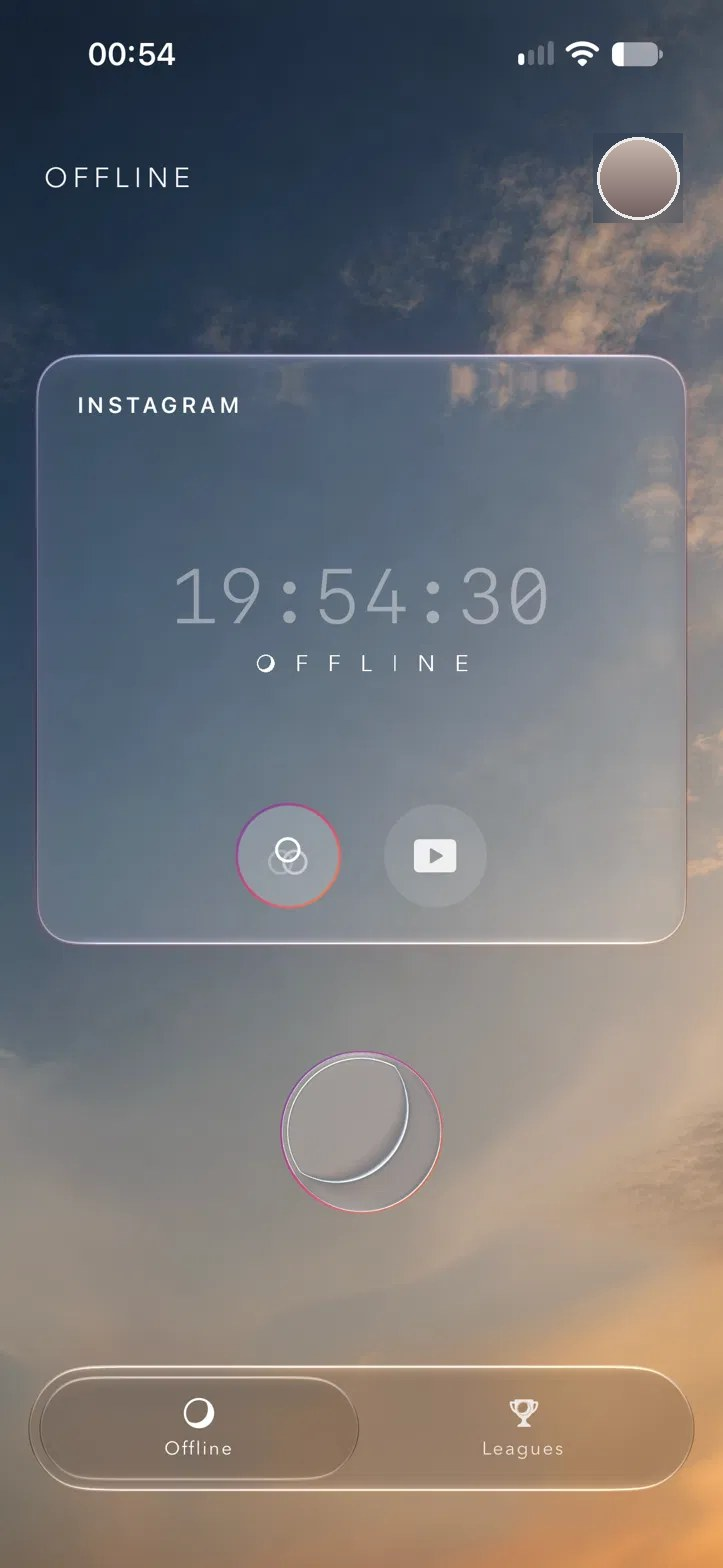
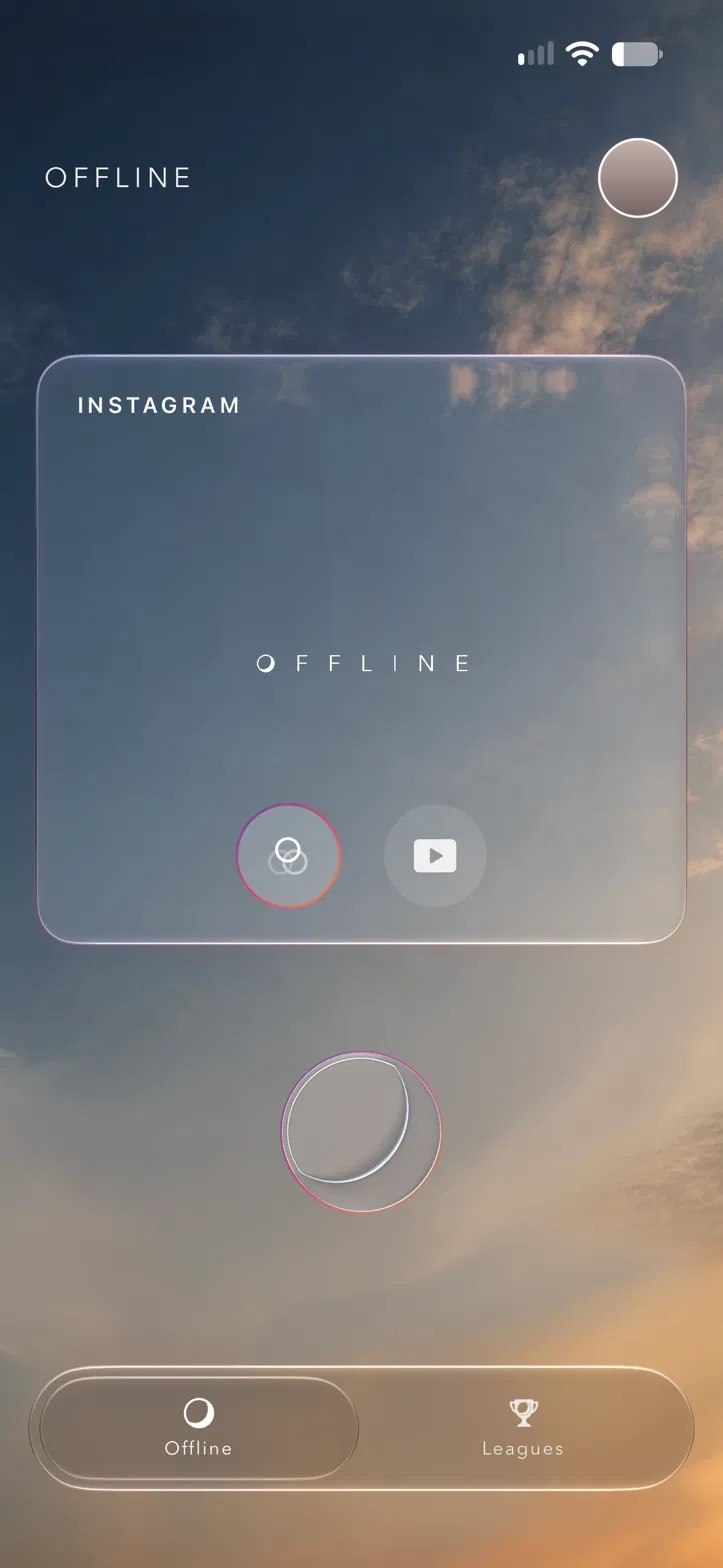
Live hero phone, refined league/rings/stats cards, app ring light in privacy and closing
Claude-Session: https://claude.ai/code/session_01EGmq6WDUmvdop7K59G5ceQ

diff --git a/index.html b/index.html
@@ -36,7 +36,7 @@
   <p class="meta-line">Free. No ads. No tracking.</p>
 
   <div class="shot" aria-hidden="true">
-    <div class="phone"><div class="app-screen real"><img src="img/hero_app.jpg" alt="The Offline tab: Instagram locked, an offline run counting up"></div></div>
+    <div class="phone"><div class="app-screen real"><div class="real-frame"><img src="img/hero_app.jpg" alt="The Offline tab: Instagram locked, an offline run counting up"><span class="ov-time" data-now>9:41</span><span class="ov-clock" data-clock>04:18:27</span></div></div></div>
   </div>
 </section>
 
@@ -99,7 +99,7 @@
     <p class="body"><strong>Your competition. Your rules.</strong></p>
     <div class="seg" style="margin-top:22px"><span class="on">Private leagues</span><span>Daily scores</span><span>Live leaderboards</span><span>Reactions</span></div>
   </div>
-  <div class="visual"><div class="stack"><div class="card lg"><div class="lg-head"><span class="lg-icon"><img src="img/moon.png" alt=""></span><div style="min-width:0"><div class="lg-name">No phone before 10</div><div class="lg-type">Target Run + Bonus</div></div><div class="lg-days"><b>5</b><span>days left</span></div></div><div class="lg-rows"><div class="rows"><div class="goal" style="left:calc(var(--lead) + (100% - var(--lead)) * 0.8939)" aria-hidden="true"><span>8h</span></div><div class="row"><span class="pts"><i class="ok"></i>+1</span><span class="av" style="background:#3a3f63">DV</span><div class="ticks"><b style="background:rgb(247,178,94)"></b><b style="background:rgb(246,170,91)"></b><b style="background:rgb(245,161,87)"></b><b style="background:rgb(244,153,84)"></b><b style="background:rgb(243,145,80)"></b><b style="background:rgb(242,137,77)"></b><b style="background:rgb(241,128,73)"></b><b style="background:rgb(240,120,70)"></b><b style="background:rgb(239,112,66)"></b><b style="background:rgb(237,104,65)"></b><b style="background:rgb(235,96,69)"></b><b style="background:rgb(233,89,73)"></b><b style="background:rgb(231,81,77)"></b><b style="background:rgb(229,74,81)"></b><b style="background:rgb(226,67,84)"></b><b style="background:rgb(224,59,88)"></b><b style="background:rgb(222,52,92)"></b><b style="background:rgb(217,52,99)"></b><b style="background:rgb(213,51,106)"></b><b style="background:rgb(209,51,112)"></b><b style="background:rgb(204,51,119)"></b><b style="background:rgb(200,51,125)"></b><b style="background:rgb(195,50,132)"></b><b style="background:rgb(191,50,139)"></b><b style="background:rgb(182,53,151)"></b><b style="background:rgb(171,56,165)"></b><b style="background:rgb(161,60,179)"></b><b style="background:rgb(151,63,192)"></b><b style="background:rgb(140,67,206)"></b><b></b><span class="val" style="left:calc(96.67% - 4px)">8h 40m</span></div></div><div class="row"><span class="pts"><i class="ok"></i>+1</span><span class="av" style="background:#6b3f5e">SA</span><div class="ticks"><b style="background:rgb(247,178,94)"></b><b style="background:rgb(246,170,91)"></b><b style="background:rgb(245,161,87)"></b><b style="background:rgb(244,153,84)"></b><b style="background:rgb(243,145,80)"></b><b style="background:rgb(242,137,77)"></b><b style="background:rgb(241,128,73)"></b><b style="background:rgb(240,120,70)"></b><b style="background:rgb(239,112,66)"></b><b style="background:rgb(237,104,65)"></b><b style="background:rgb(235,96,69)"></b><b style="background:rgb(233,89,73)"></b><b style="background:rgb(231,81,77)"></b><b style="background:rgb(229,74,81)"></b><b style="background:rgb(226,67,84)"></b><b style="background:rgb(224,59,88)"></b><b style="background:rgb(222,52,92)"></b><b style="background:rgb(217,52,99)"></b><b style="background:rgb(213,51,106)"></b><b style="background:rgb(209,51,112)"></b><b style="background:rgb(204,51,119)"></b><b style="background:rgb(200,51,125)"></b><b style="background:rgb(195,50,132)"></b><b style="background:rgb(191,50,139)"></b><b style="background:rgb(182,53,151)"></b><b style="background:rgb(171,56,165)"></b><b style="background:rgb(161,60,179)"></b><b style="background:rgb(151,63,192)"></b><b style="background:rgb(140,67,206)"></b><b></b><span class="val" style="left:calc(96.67% - 4px)">8h 40m</span><span class="em" style="left:67.0%" aria-hidden="true">🔥</span></div></div><div class="row"><span class="pts"><i></i>+0</span><span class="av" style="background:#2f5560">LE</span><div class="ticks"><b style="background:rgb(247,178,94)"></b><b style="background:rgb(246,170,91)"></b><b style="background:rgb(245,161,87)"></b><b style="background:rgb(244,153,84)"></b><b style="background:rgb(243,145,80)"></b><b style="background:rgb(242,137,77)"></b><b style="background:rgb(241,128,73)"></b><b style="background:rgb(240,120,70)"></b><b style="background:rgb(239,112,66)"></b><b style="background:rgb(237,104,65)"></b><b style="background:rgb(235,96,69)"></b><b style="background:rgb(233,89,73)"></b><b style="background:rgb(231,81,77)"></b><b style="background:rgb(229,74,81)"></b><b style="background:rgb(226,67,84)"></b><b style="background:rgb(224,59,88)"></b><b></b><b></b><b></b><b></b><b></b><b></b><b></b><b></b><b></b><b></b><b></b><b></b><b></b><b></b><span class="val" style="left:calc(53.33% - 4px)">4h 40m</span><span class="em" style="left:33.5%" aria-hidden="true">👏</span></div></div></div></div></div><div class="card lg"><div class="lg-head"><span class="lg-icon"><img src="img/moon.png" alt=""></span><div style="min-width:0"><div class="lg-name">Weekend Offline</div><div class="lg-type">Target Run</div></div><div class="lg-days"><b>2</b><span>days left</span></div></div><div class="lg-rows"><div class="rows"><div class="goal" style="left:calc(var(--lead) + (100% - var(--lead)) * 0.8929)" aria-hidden="true"><span>10h</span></div><div class="row"><span class="pts"><i class="ok"></i>+1</span><span class="av" style="background:#5a4a2e">MI</span><div class="ticks"><b style="background:rgb(247,178,94)"></b><b style="background:rgb(246,170,91)"></b><b style="background:rgb(245,161,87)"></b><b style="background:rgb(244,153,84)"></b><b style="background:rgb(243,145,80)"></b><b style="background:rgb(242,137,77)"></b><b style="background:rgb(241,128,73)"></b><b style="background:rgb(240,120,70)"></b><b style="background:rgb(239,112,66)"></b><b style="background:rgb(237,104,65)"></b><b style="background:rgb(235,96,69)"></b><b style="background:rgb(233,89,73)"></b><b style="background:rgb(231,81,77)"></b><b style="background:rgb(229,74,81)"></b><b style="background:rgb(226,67,84)"></b><b style="background:rgb(224,59,88)"></b><b style="background:rgb(222,52,92)"></b><b style="background:rgb(217,52,99)"></b><b style="background:rgb(213,51,106)"></b><b style="background:rgb(209,51,112)"></b><b style="background:rgb(204,51,119)"></b><b style="background:rgb(200,51,125)"></b><b style="background:rgb(195,50,132)"></b><b style="background:rgb(191,50,139)"></b><b style="background:rgb(182,53,151)"></b><b style="background:rgb(171,56,165)"></b><b style="background:rgb(161,60,179)"></b><b style="background:rgb(151,63,192)"></b><b style="background:rgb(140,67,206)"></b><b style="background:rgb(130,70,220)"></b><span class="val" style="left:calc(100.00% - 4px)">11h 5m</span></div></div><div class="row"><span class="pts"><i></i>+0</span><span class="av" style="background:#3a3f63">DV</span><div class="ticks"><b style="background:rgb(247,178,94)"></b><b style="background:rgb(246,170,91)"></b><b style="background:rgb(245,161,87)"></b><b style="background:rgb(244,153,84)"></b><b style="background:rgb(243,145,80)"></b><b style="background:rgb(242,137,77)"></b><b style="background:rgb(241,128,73)"></b><b style="background:rgb(240,120,70)"></b><b style="background:rgb(239,112,66)"></b><b style="background:rgb(237,104,65)"></b><b style="background:rgb(235,96,69)"></b><b style="background:rgb(233,89,73)"></b><b style="background:rgb(231,81,77)"></b><b style="background:rgb(229,74,81)"></b><b style="background:rgb(226,67,84)"></b><b style="background:rgb(224,59,88)"></b><b style="background:rgb(222,52,92)"></b><b style="background:rgb(217,52,99)"></b><b style="background:rgb(213,51,106)"></b><b style="background:rgb(209,51,112)"></b><b style="background:rgb(204,51,119)"></b><b style="background:rgb(200,51,125)"></b><b style="background:rgb(195,50,132)"></b><b style="background:rgb(191,50,139)"></b><b style="background:rgb(182,53,151)"></b><b></b><b></b><b></b><b></b><b></b><span class="val" style="left:calc(83.33% - 4px)">9h 20m</span><span class="em" style="left:62.5%" aria-hidden="true">🙌</span></div></div></div></div></div><div class="card lg"><div class="lg-head"><span class="lg-icon"><img src="img/moon.png" alt=""></span><div style="min-width:0"><div class="lg-name">Sunday reset</div><div class="lg-type">Target Average</div></div><div class="lg-days"><b>6</b><span>days left</span></div></div></div></div></div>
+  <div class="visual"><div class="stack"><div class="card lg"><div class="lg-head"><span class="lg-icon"><svg viewBox="0 0 24 24" aria-hidden="true"><rect x="3.5" y="3.5" width="17" height="17" rx="5" fill="none" stroke="#fff" stroke-width="1.6"/><circle cx="12" cy="12" r="3.8" fill="none" stroke="#fff" stroke-width="1.6"/><circle cx="16.9" cy="7.1" r="1" fill="#fff"/></svg></span><div style="min-width:0"><div class="lg-name">No phone before 10</div><div class="lg-type">Target Run + Bonus</div></div><div class="lg-days"><b>5</b><span>days left</span></div></div><div class="lg-rows"><div class="rows"><div class="goal" style="left:calc(var(--lead) + (100% - var(--lead)) * 0.8939)" aria-hidden="true"><span>8h</span></div><div class="row"><span class="pts"><i class="ok"></i>+1</span><span class="av" style="background:#3a3f63">DV</span><div class="ticks"><b style="background:rgb(247,178,94)"></b><b style="background:rgb(246,170,91)"></b><b style="background:rgb(245,161,87)"></b><b style="background:rgb(244,153,84)"></b><b style="background:rgb(243,145,80)"></b><b style="background:rgb(242,137,77)"></b><b style="background:rgb(241,128,73)"></b><b style="background:rgb(240,120,70)"></b><b style="background:rgb(239,112,66)"></b><b style="background:rgb(237,104,65)"></b><b style="background:rgb(235,96,69)"></b><b style="background:rgb(233,89,73)"></b><b style="background:rgb(231,81,77)"></b><b style="background:rgb(229,74,81)"></b><b style="background:rgb(226,67,84)"></b><b style="background:rgb(224,59,88)"></b><b style="background:rgb(222,52,92)"></b><b style="background:rgb(217,52,99)"></b><b style="background:rgb(213,51,106)"></b><b style="background:rgb(209,51,112)"></b><b style="background:rgb(204,51,119)"></b><b style="background:rgb(200,51,125)"></b><b style="background:rgb(195,50,132)"></b><b style="background:rgb(191,50,139)"></b><b style="background:rgb(182,53,151)"></b><b style="background:rgb(171,56,165)"></b><b style="background:rgb(161,60,179)"></b><b style="background:rgb(151,63,192)"></b><b style="background:rgb(140,67,206)"></b><b></b><span class="val" style="left:calc(96.67% - 4px)">8h 40m</span></div></div><div class="row"><span class="pts"><i class="ok"></i>+1</span><span class="av" style="background:#6b3f5e">SA</span><div class="ticks"><b style="background:rgb(247,178,94)"></b><b style="background:rgb(246,170,91)"></b><b style="background:rgb(245,161,87)"></b><b style="background:rgb(244,153,84)"></b><b style="background:rgb(243,145,80)"></b><b style="background:rgb(242,137,77)"></b><b style="background:rgb(241,128,73)"></b><b style="background:rgb(240,120,70)"></b><b style="background:rgb(239,112,66)"></b><b style="background:rgb(237,104,65)"></b><b style="background:rgb(235,96,69)"></b><b style="background:rgb(233,89,73)"></b><b style="background:rgb(231,81,77)"></b><b style="background:rgb(229,74,81)"></b><b style="background:rgb(226,67,84)"></b><b style="background:rgb(224,59,88)"></b><b style="background:rgb(222,52,92)"></b><b style="background:rgb(217,52,99)"></b><b style="background:rgb(213,51,106)"></b><b style="background:rgb(209,51,112)"></b><b style="background:rgb(204,51,119)"></b><b style="background:rgb(200,51,125)"></b><b style="background:rgb(195,50,132)"></b><b style="background:rgb(191,50,139)"></b><b style="background:rgb(182,53,151)"></b><b style="background:rgb(171,56,165)"></b><b style="background:rgb(161,60,179)"></b><b style="background:rgb(151,63,192)"></b><b style="background:rgb(140,67,206)"></b><b></b><span class="val" style="left:calc(96.67% - 4px)">8h 40m</span><span class="em" style="left:67.0%" aria-hidden="true">🔥</span></div></div><div class="row"><span class="pts"><i></i>+0</span><span class="av" style="background:#2f5560">LE</span><div class="ticks"><b style="background:rgb(247,178,94)"></b><b style="background:rgb(246,170,91)"></b><b style="background:rgb(245,161,87)"></b><b style="background:rgb(244,153,84)"></b><b style="background:rgb(243,145,80)"></b><b style="background:rgb(242,137,77)"></b><b style="background:rgb(241,128,73)"></b><b style="background:rgb(240,120,70)"></b><b style="background:rgb(239,112,66)"></b><b style="background:rgb(237,104,65)"></b><b style="background:rgb(235,96,69)"></b><b style="background:rgb(233,89,73)"></b><b style="background:rgb(231,81,77)"></b><b style="background:rgb(229,74,81)"></b><b style="background:rgb(226,67,84)"></b><b style="background:rgb(224,59,88)"></b><b></b><b></b><b></b><b></b><b></b><b></b><b></b><b></b><b></b><b></b><b></b><b></b><b></b><b></b><span class="val" style="left:calc(53.33% - 4px)">4h 40m</span><span class="em" style="left:33.5%" aria-hidden="true">👏</span></div></div></div></div></div><div class="card lg"><div class="lg-head"><span class="lg-icon"><svg viewBox="0 0 24 24" aria-hidden="true"><rect x="3" y="5.5" width="18" height="13" rx="3.5" fill="none" stroke="#fff" stroke-width="1.6"/><path d="M10.3 9.2l4.6 2.8-4.6 2.8z" fill="#fff"/></svg></span><div style="min-width:0"><div class="lg-name">Weekend Offline</div><div class="lg-type">Target Run</div></div><div class="lg-days"><b>2</b><span>days left</span></div></div><div class="lg-rows"><div class="rows"><div class="goal" style="left:calc(var(--lead) + (100% - var(--lead)) * 0.8929)" aria-hidden="true"><span>10h</span></div><div class="row"><span class="pts"><i class="ok"></i>+1</span><span class="av" style="background:#5a4a2e">MI</span><div class="ticks"><b style="background:rgb(247,178,94)"></b><b style="background:rgb(246,170,91)"></b><b style="background:rgb(245,161,87)"></b><b style="background:rgb(244,153,84)"></b><b style="background:rgb(243,145,80)"></b><b style="background:rgb(242,137,77)"></b><b style="background:rgb(241,128,73)"></b><b style="background:rgb(240,120,70)"></b><b style="background:rgb(239,112,66)"></b><b style="background:rgb(237,104,65)"></b><b style="background:rgb(235,96,69)"></b><b style="background:rgb(233,89,73)"></b><b style="background:rgb(231,81,77)"></b><b style="background:rgb(229,74,81)"></b><b style="background:rgb(226,67,84)"></b><b style="background:rgb(224,59,88)"></b><b style="background:rgb(222,52,92)"></b><b style="background:rgb(217,52,99)"></b><b style="background:rgb(213,51,106)"></b><b style="background:rgb(209,51,112)"></b><b style="background:rgb(204,51,119)"></b><b style="background:rgb(200,51,125)"></b><b style="background:rgb(195,50,132)"></b><b style="background:rgb(191,50,139)"></b><b style="background:rgb(182,53,151)"></b><b style="background:rgb(171,56,165)"></b><b style="background:rgb(161,60,179)"></b><b style="background:rgb(151,63,192)"></b><b style="background:rgb(140,67,206)"></b><b style="background:rgb(130,70,220)"></b><span class="val" style="left:calc(100.00% - 4px)">11h 5m</span></div></div><div class="row"><span class="pts"><i></i>+0</span><span class="av" style="background:#3a3f63">DV</span><div class="ticks"><b style="background:rgb(247,178,94)"></b><b style="background:rgb(246,170,91)"></b><b style="background:rgb(245,161,87)"></b><b style="background:rgb(244,153,84)"></b><b style="background:rgb(243,145,80)"></b><b style="background:rgb(242,137,77)"></b><b style="background:rgb(241,128,73)"></b><b style="background:rgb(240,120,70)"></b><b style="background:rgb(239,112,66)"></b><b style="background:rgb(237,104,65)"></b><b style="background:rgb(235,96,69)"></b><b style="background:rgb(233,89,73)"></b><b style="background:rgb(231,81,77)"></b><b style="background:rgb(229,74,81)"></b><b style="background:rgb(226,67,84)"></b><b style="background:rgb(224,59,88)"></b><b style="background:rgb(222,52,92)"></b><b style="background:rgb(217,52,99)"></b><b style="background:rgb(213,51,106)"></b><b style="background:rgb(209,51,112)"></b><b style="background:rgb(204,51,119)"></b><b style="background:rgb(200,51,125)"></b><b style="background:rgb(195,50,132)"></b><b style="background:rgb(191,50,139)"></b><b style="background:rgb(182,53,151)"></b><b></b><b></b><b></b><b></b><b></b><span class="val" style="left:calc(83.33% - 4px)">9h 20m</span><span class="em" style="left:62.5%" aria-hidden="true">🙌</span></div></div></div></div></div><div class="card lg"><div class="lg-head"><span class="lg-icon"><svg viewBox="0 0 24 24" aria-hidden="true"><path d="M4 6.5A2.5 2.5 0 0 1 6.5 4h11A2.5 2.5 0 0 1 20 6.5v7a2.5 2.5 0 0 1-2.5 2.5H10l-4.5 3.5V16h0A2.5 2.5 0 0 1 4 13.5z" fill="none" stroke="#fff" stroke-width="1.6" stroke-linejoin="round"/></svg></span><div style="min-width:0"><div class="lg-name">Sunday reset</div><div class="lg-type">Target Average</div></div><div class="lg-days"><b>6</b><span>days left</span></div></div></div></div></div>
 </section>
 
 <section class="wrap feature flip" id="pillars">
@@ -119,15 +119,15 @@
     <section class="card pad glow" aria-label="Today">
       <p class="lab">Today</p>
       <div class="rings">
-        <svg viewBox="0 0 200 200" role="img" aria-label="Three rings: run 72 percent, average 94 percent, limit closed"><defs><linearGradient id="r1" x1="0" y1="0" x2="1" y2="1"><stop offset="0" stop-color="#f7b25e"/><stop offset="1" stop-color="#ee6a40"/></linearGradient></defs><circle cx="100" cy="100" r="90" fill="none" stroke="rgba(255,255,255,.14)" stroke-width="11"/><path d="M100 10 A90 90 0 1 1 10.18 94.35" fill="none" stroke="url(#r1)" stroke-width="11" stroke-linecap="round"/><defs><linearGradient id="r2" x1="0" y1="0" x2="1" y2="1"><stop offset="0" stop-color="#ee6a6a"/><stop offset="1" stop-color="#d63a8c"/></linearGradient></defs><circle cx="100" cy="100" r="72" fill="none" stroke="rgba(255,255,255,.14)" stroke-width="11"/><path d="M100 28 A72 72 0 1 1 77.75 31.52" fill="none" stroke="url(#r2)" stroke-width="11" stroke-linecap="round"/><defs><linearGradient id="r3" x1="0" y1="0" x2="1" y2="1"><stop offset="0" stop-color="#be4fd0"/><stop offset="1" stop-color="#8246dc"/></linearGradient></defs><circle cx="100" cy="100" r="54" fill="none" stroke="rgba(255,255,255,.14)" stroke-width="11"/><path d="M100 46 A54 54 0 1 1 99.66 46.00" fill="none" stroke="url(#r3)" stroke-width="11" stroke-linecap="round"/></svg>
+        <svg viewBox="0 0 200 200" role="img" aria-label="Three rings: run 76 percent, average 85 percent, limit closed"><defs><linearGradient id="r1" x1="0" y1="0" x2="1" y2="1"><stop offset="0" stop-color="#f7b25e"/><stop offset="1" stop-color="#ee6a40"/></linearGradient></defs><circle cx="100" cy="100" r="89" fill="none" stroke="rgba(255,255,255,.14)" stroke-width="13"/><path d="M100 11 A89 89 0 1 1 11.18 94.41" fill="none" stroke="url(#r1)" stroke-width="13" stroke-linecap="round"/><defs><linearGradient id="r2" x1="0" y1="0" x2="1" y2="1"><stop offset="0" stop-color="#ee6a6a"/><stop offset="1" stop-color="#d63a8c"/></linearGradient></defs><circle cx="100" cy="100" r="69" fill="none" stroke="rgba(255,255,255,.14)" stroke-width="13"/><path d="M100 31 A69 69 0 1 1 44.18 59.44" fill="none" stroke="url(#r2)" stroke-width="13" stroke-linecap="round"/><defs><linearGradient id="r3" x1="0" y1="0" x2="1" y2="1"><stop offset="0" stop-color="#be4fd0"/><stop offset="1" stop-color="#8246dc"/></linearGradient></defs><circle cx="100" cy="100" r="49" fill="none" stroke="url(#r3)" stroke-width="13"/></svg>
         <div class="ring-list">
           <div><div class="k"><i style="background:#f08a4b"></i>Offline Run</div><div class="v">7 h 36 min<small>/ 10 h</small></div></div>
-          <div><div class="k"><i style="background:#e0447a"></i>Offline Average</div><div class="v">7.6 h<small>/ 8 h</small></div></div>
+          <div><div class="k"><i style="background:#e0447a"></i>Offline Average</div><div class="v">6.8 h<small>/ 8 h</small></div></div>
           <div><div class="k"><i style="background:#9a52dc"></i>Online Limit</div><div class="v">0 min<small>/ 1 h 30 min</small></div></div>
         </div>
       </div>
       <p class="lab week-lab">This week</p>
-      <div class="week"><div><svg viewBox="0 0 40 40" aria-hidden="true"><defs><linearGradient id="wM1" x1="0" y1="0" x2="1" y2="1"><stop offset="0" stop-color="#f7b25e"/><stop offset="1" stop-color="#d63a8c"/></linearGradient></defs><circle cx="20" cy="20" r="16" fill="none" stroke="rgba(255,255,255,.14)" stroke-width="4"/><path d="M20 4 A16 16 0 1 1 19.90 4.00" fill="none" stroke="url(#wM1)" stroke-width="4" stroke-linecap="round"/></svg><span>M</span></div><div><svg viewBox="0 0 40 40" aria-hidden="true"><defs><linearGradient id="wT0.8" x1="0" y1="0" x2="1" y2="1"><stop offset="0" stop-color="#f7b25e"/><stop offset="1" stop-color="#d63a8c"/></linearGradient></defs><circle cx="20" cy="20" r="16" fill="none" stroke="rgba(255,255,255,.14)" stroke-width="4"/><path d="M20 4 A16 16 0 1 1 4.78 15.06" fill="none" stroke="url(#wT0.8)" stroke-width="4" stroke-linecap="round"/></svg><span>T</span></div><div><svg viewBox="0 0 40 40" aria-hidden="true"><defs><linearGradient id="wW0.95" x1="0" y1="0" x2="1" y2="1"><stop offset="0" stop-color="#f7b25e"/><stop offset="1" stop-color="#d63a8c"/></linearGradient></defs><circle cx="20" cy="20" r="16" fill="none" stroke="rgba(255,255,255,.14)" stroke-width="4"/><path d="M20 4 A16 16 0 1 1 15.06 4.78" fill="none" stroke="url(#wW0.95)" stroke-width="4" stroke-linecap="round"/></svg><span>W</span></div><div><svg viewBox="0 0 40 40" aria-hidden="true"><defs><linearGradient id="wT0.4" x1="0" y1="0" x2="1" y2="1"><stop offset="0" stop-color="#f7b25e"/><stop offset="1" stop-color="#d63a8c"/></linearGradient></defs><circle cx="20" cy="20" r="16" fill="none" stroke="rgba(255,255,255,.14)" stroke-width="4"/><path d="M20 4 A16 16 0 0 1 29.40 32.94" fill="none" stroke="url(#wT0.4)" stroke-width="4" stroke-linecap="round"/></svg><span>T</span></div><div><svg viewBox="0 0 40 40" aria-hidden="true"><circle cx="20" cy="20" r="16" fill="none" stroke="rgba(255,255,255,.14)" stroke-width="4"/></svg><span>F</span></div><div><svg viewBox="0 0 40 40" aria-hidden="true"><circle cx="20" cy="20" r="16" fill="none" stroke="rgba(255,255,255,.14)" stroke-width="4"/></svg><span>S</span></div><div><svg viewBox="0 0 40 40" aria-hidden="true"><circle cx="20" cy="20" r="16" fill="none" stroke="rgba(255,255,255,.14)" stroke-width="4"/></svg><span>S</span></div></div>
+      <div class="week"><div><svg viewBox="0 0 40 40" aria-hidden="true"><defs><linearGradient id="wM1" x1="0" y1="0" x2="1" y2="1"><stop offset="0" stop-color="#f7b25e"/><stop offset="1" stop-color="#d63a8c"/></linearGradient></defs><circle cx="20" cy="20" r="16" fill="none" stroke="url(#wM1)" stroke-width="4"/></svg><span>M</span></div><div><svg viewBox="0 0 40 40" aria-hidden="true"><defs><linearGradient id="wT1" x1="0" y1="0" x2="1" y2="1"><stop offset="0" stop-color="#f7b25e"/><stop offset="1" stop-color="#d63a8c"/></linearGradient></defs><circle cx="20" cy="20" r="16" fill="none" stroke="url(#wT1)" stroke-width="4"/></svg><span>T</span></div><div><svg viewBox="0 0 40 40" aria-hidden="true"><defs><linearGradient id="wW0.8" x1="0" y1="0" x2="1" y2="1"><stop offset="0" stop-color="#f7b25e"/><stop offset="1" stop-color="#d63a8c"/></linearGradient></defs><circle cx="20" cy="20" r="16" fill="none" stroke="rgba(255,255,255,.14)" stroke-width="4"/><path d="M20 4 A16 16 0 1 1 4.78 15.06" fill="none" stroke="url(#wW0.8)" stroke-width="4" stroke-linecap="round"/></svg><span>W</span></div><div><svg viewBox="0 0 40 40" aria-hidden="true"><defs><linearGradient id="wT0.55" x1="0" y1="0" x2="1" y2="1"><stop offset="0" stop-color="#f7b25e"/><stop offset="1" stop-color="#d63a8c"/></linearGradient></defs><circle cx="20" cy="20" r="16" fill="none" stroke="rgba(255,255,255,.14)" stroke-width="4"/><path d="M20 4 A16 16 0 1 1 15.06 35.22" fill="none" stroke="url(#wT0.55)" stroke-width="4" stroke-linecap="round"/></svg><span>T</span></div><div><svg viewBox="0 0 40 40" aria-hidden="true"><circle cx="20" cy="20" r="16" fill="none" stroke="rgba(255,255,255,.14)" stroke-width="4"/></svg><span>F</span></div><div><svg viewBox="0 0 40 40" aria-hidden="true"><circle cx="20" cy="20" r="16" fill="none" stroke="rgba(255,255,255,.14)" stroke-width="4"/></svg><span>S</span></div><div><svg viewBox="0 0 40 40" aria-hidden="true"><circle cx="20" cy="20" r="16" fill="none" stroke="rgba(255,255,255,.14)" stroke-width="4"/></svg><span>S</span></div></div>
     </section>
   </div>
 </section>
@@ -141,9 +141,10 @@
   <p class="strong">The more time you reclaim, the more you unlock.</p>
 </section>
 
-<section class="wrap center-sec" id="privacy">
+<section class="wrap center-sec privacy" id="privacy">
+  <span class="ringlight" aria-hidden="true"><img src="img/moon.png" alt=""></span>
   <span class="eyebrow">Privacy</span>
-  <h2>Your time is yours. <b>So is your data.</b></h2>
+  <h2>Your time is yours.<br><b>So is your data.</b></h2>
   <p class="body">Offline uses Apple's Screen Time to lock the apps you choose, not to read your Screen Time activity.</p>
   <p class="body">Your app selections stay on your iPhone. Offline measures runs and breaks with its own timer.</p>
   <p class="body">If you join a league, other members can see your shared score and ranking. They can't see what you do inside other apps.</p>
@@ -172,7 +173,7 @@
 </section>
 
 <section class="wrap final" id="download">
-  <div class="halo" aria-hidden="true"><img src="img/moon.png" alt=""></div>
+  <div class="halo" aria-hidden="true"><span class="ringlight big"><img src="img/moon.png" alt=""></span></div>
   <h2>Life happens <b>offline.</b></h2>
   <p class="body">Your friends are waiting. The sky is still there. And that thing you were about to scroll past can probably wait.</p>
   <p class="strong">Put your phone down. See what happens.</p>
@@ -217,6 +218,9 @@
       el.style.setProperty('--mx', (e.clientX - r.left) + 'px'); el.style.setProperty('--my', (e.clientY - r.top) + 'px');
     });
   });
+  var now = document.querySelectorAll('[data-now]');
+  function tick() { var d = new Date(); now.forEach(function (n) { n.textContent = d.getHours() + ':' + pad(d.getMinutes()); }); }
+  tick(); setInterval(tick, 15000);
   var map = { '#privacy': 'privacy.html', '#terms': 'terms.html', '#faq': 'support.html', '#contact': 'support.html' };
   if (map[location.hash]) location.replace(map[location.hash]);
 })();

diff --git a/style.css b/style.css
@@ -485,3 +485,75 @@ details p { margin: 10px 0 0; color: var(--fg-2); }
 .week { gap: 8px; }
 .week svg { max-width: 34px; }
 @media (max-width: 480px) { .rings { grid-template-columns: 1fr; justify-items: center; } .rings svg { max-width: 190px; } .ring-list { width: 100%; } }
+
+/* v18: refined league + rings */
+.lg { padding: 20px 20px 22px; }
+.lg-head { grid-template-columns: 46px 1fr auto; }
+.lg-icon { width: 46px; height: 46px; border-radius: 13px; background: linear-gradient(160deg, rgba(255,255,255,.22), rgba(255,255,255,.08)); box-shadow: inset 0 0 0 1px rgba(255,255,255,.22); }
+.lg-icon svg { width: 22px; height: 22px; }
+.lg-name { font-size: 19px; }
+.lg-type { font-size: 12.5px; margin-top: 1px; }
+.lg-days b { font-size: 28px; }
+.lg-days span { font-size: 10.5px; }
+.lg-rows { margin-top: 16px; }
+.rows { --lead: 86px; padding-top: 22px; }
+.row { grid-template-columns: 26px 40px 1fr; gap: 10px; margin-bottom: 16px; }
+.pts i { width: 18px; height: 18px; }
+.pts i.ok::after { left: 5.5px; top: 2.5px; width: 4px; height: 8px; }
+.av { width: 40px; height: 40px; font-size: 11px; border-width: 1.5px; box-shadow: 0 2px 8px rgba(0,0,0,.2); }
+.ticks { height: 20px; gap: 2.5px; }
+.ticks b { border-radius: 2.5px; }
+.ticks .val { font-size: 11px; padding: 2px 7px; border-radius: 6px; background: rgba(90, 20, 70, .7); -webkit-backdrop-filter: blur(4px); backdrop-filter: blur(4px); }
+.ticks .em { font-size: 13px; transform: translate(-50%, -25%); }
+.goal { top: 18px; bottom: -4px; border-left: 1.5px dotted rgba(255,255,255,.65); }
+.goal span { top: -19px; font-size: 10.5px; font-weight: 600; letter-spacing: .02em; }
+.ring-list .v { font-weight: 200; }
+/* v18: quick facts as glass tiles */
+.center-sec .stats { gap: 14px; max-width: 900px; margin: 56px auto 0; }
+.center-sec .stats > div { position: relative; padding: 30px 22px 28px; border-radius: 26px; background: var(--card);
+  -webkit-backdrop-filter: blur(6px) saturate(140%); backdrop-filter: blur(6px) saturate(140%); }
+.center-sec .stats > div::before { content: ""; position: absolute; inset: 0; border-radius: inherit; padding: 1px; pointer-events: none;
+  background: linear-gradient(175deg, rgba(255,255,255,.6), rgba(255,255,255,.14) 35%, rgba(255,255,255,.06) 70%, rgba(255,255,255,.24));
+  -webkit-mask: linear-gradient(#000 0 0) content-box, linear-gradient(#000 0 0); -webkit-mask-composite: xor; mask-composite: exclude; }
+.center-sec .stats > div + div { border-left: 0; }
+.center-sec .stats b { font-size: clamp(34px, 3.6vw, 46px); font-weight: 200; letter-spacing: -.01em; white-space: nowrap; }
+.center-sec .stats p { margin-top: 12px; font-size: 14px; line-height: 1.5; max-width: 15em; }
+@media (max-width: 700px) { .center-sec .stats { grid-template-columns: 1fr; } }
+
+/* v18: live hero phone */
+.app-screen.real { display: grid; place-items: center; background: #2c3242; }
+.real-frame { position: relative; height: 100%; aspect-ratio: 723 / 1568; container-type: size; }
+.real-frame img { position: absolute; inset: 0; width: 100%; height: 100%; display: block; }
+.ov-time { position: absolute; left: 18.2%; top: 3.4%; transform: translate(-50%, -50%); font-size: 2.05cqh; font-weight: 600; letter-spacing: -.01em; color: #fff; font-family: -apple-system, "SF Pro Text", "Helvetica Neue", Arial, sans-serif; font-variant-numeric: tabular-nums; }
+.ov-clock { position: absolute; left: 50%; top: 38.1%; transform: translate(-50%, -50%); font-family: ui-monospace, "SF Mono", Menlo, Consolas, monospace; font-weight: 300; font-size: 5cqh; line-height: 1; color: rgba(255,255,255,.52); font-variant-numeric: tabular-nums; white-space: nowrap; }
+@media (prefers-reduced-motion: no-preference) {
+  .v-hero .shot .phone { animation: floaty 7s ease-in-out infinite; }
+  @keyframes floaty { 0%, 100% { transform: translateY(0); } 50% { transform: translateY(-10px); } }
+}
+
+/* v19: the app's ring light */
+.ringlight { --s: 76px; position: relative; display: inline-grid; place-items: center; width: var(--s); height: var(--s); border-radius: 50%;
+  background: rgba(255,255,255,.08); -webkit-backdrop-filter: blur(6px); backdrop-filter: blur(6px); }
+.ringlight::before { content: ""; position: absolute; inset: 0; border-radius: 50%; padding: 1.5px;
+  background: conic-gradient(from 200deg, #8246dc, #be4fd0, #de345c, #ee6a40, #f7b25e, #ee6a40, #de345c, #8246dc);
+  -webkit-mask: linear-gradient(#000 0 0) content-box, linear-gradient(#000 0 0); -webkit-mask-composite: xor; mask-composite: exclude; }
+.ringlight::after { content: ""; position: absolute; inset: -14%; border-radius: 50%; z-index: -1; filter: blur(18px); opacity: .55;
+  background: conic-gradient(from 200deg, #8246dc, #de345c, #ee6a40, #f7b25e, #de345c, #8246dc); }
+.ringlight img { width: 82%; filter: none; }
+.ringlight.big { --s: 132px; }
+.ringlight.big::before { padding: 2px; }
+.ringlight.big::after { filter: blur(30px); opacity: .5; }
+.halo img { filter: none; }
+.halo::before, .halo::after { border-color: rgba(255,255,255,.18); }
+@media (prefers-reduced-motion: no-preference) {
+  .ringlight::before, .ringlight::after { animation: ringspin 14s linear infinite; }
+  @keyframes ringspin { to { transform: rotate(360deg); } }
+}
+.privacy .ringlight { margin-bottom: 22px; }
+.privacy h2 { max-width: 13em; }
+.center-sec h2 { max-width: 14em; }
+.privacy .body { max-width: 31em; }
+.privacy .ringlight { display: grid; margin: 0 auto 22px; }
+.ringlight::after { inset: -6%; filter: blur(14px); opacity: .28; }
+.ringlight.big::after { inset: -4%; filter: blur(26px); opacity: .3; }
+.ringlight { background: rgba(255,255,255,.06); }
